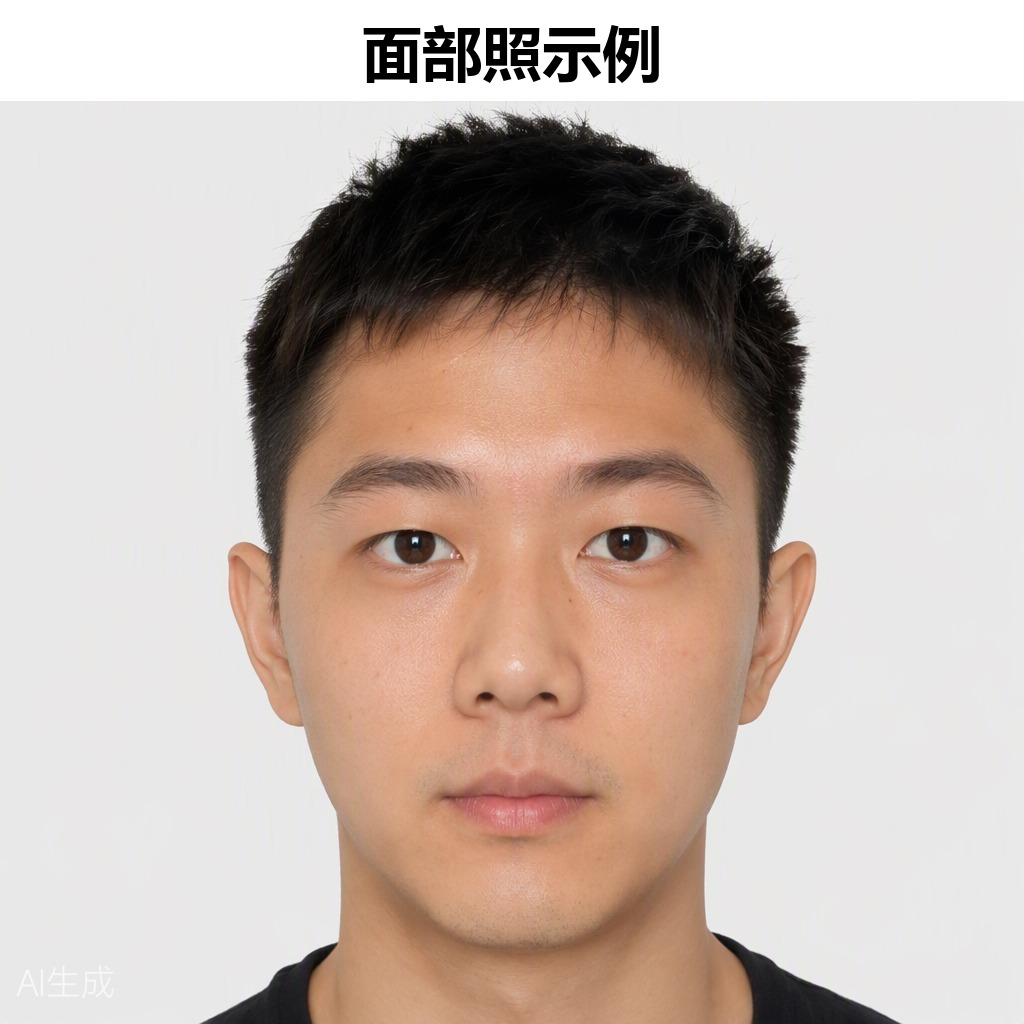
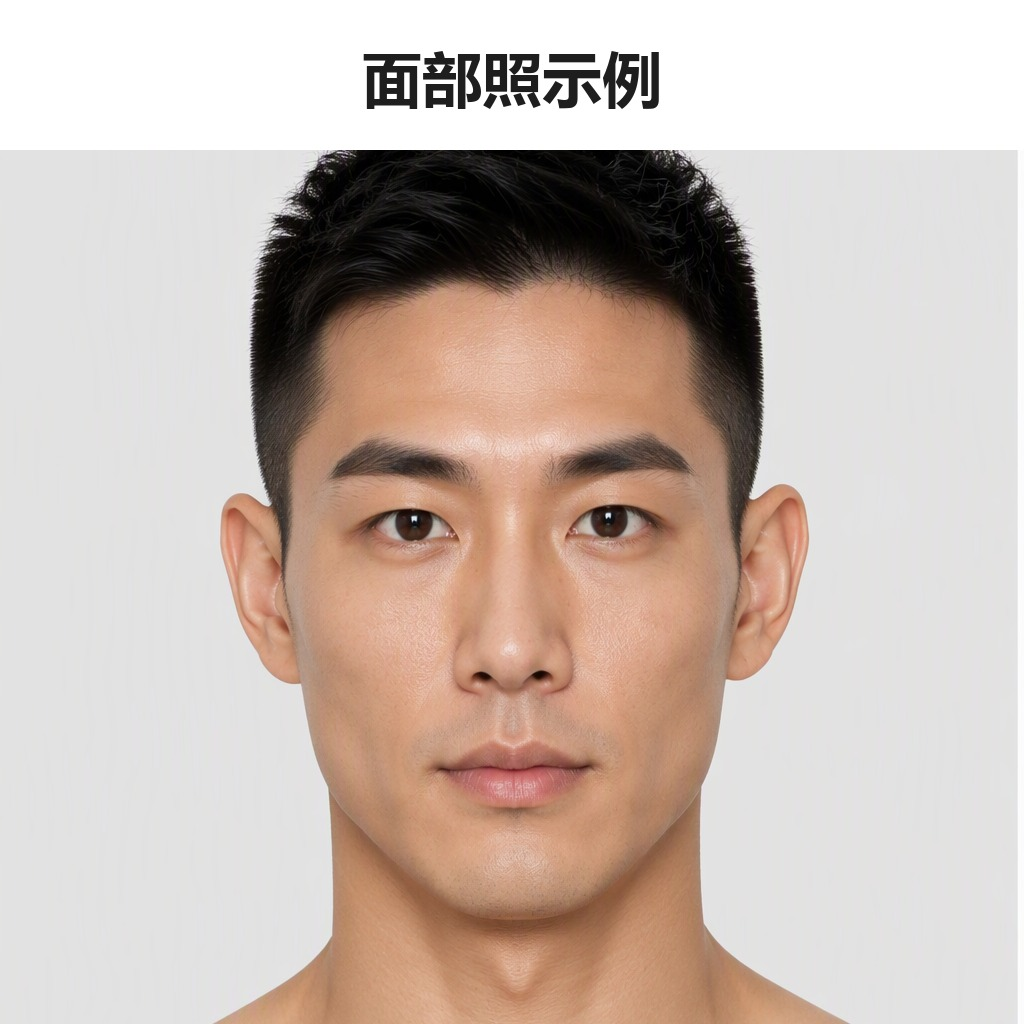
docs(guide): 手册拍摄要点修订与例图重做
- 舌底照要点改为「舌尖轻点上颚（上门牙后方）」，删去「两根静脉应清晰可见」
- 耳部照删去「两侧耳朵各拍一张」
- 舌面/舌底/面部/耳部四张例图重做：统一成熟男性形象、浅灰背景、医学示教风格，舌底静脉按正常生理形态淡化
- 例图合成改为上下裁边不压比例，图片地址加版本参数防缓存

Changed region(s): [[0.1875, 0.0, 1.0, 1.0], [0.6875, 0.9062, 0.875, 1.0], [0.0625, 0.0938, 0.1562, 0.1562]]

diff --git a/docs/user-guide.html b/docs/user-guide.html
@@ -181,21 +181,20 @@ strong{color:var(--ink);}
 <li>❌ 逆光拍摄 → 舌色偏暗无法判断</li>
 <li>❌ 刚喝完热茶 → 舌苔被冲刷</li>
 </ul>
-<p><img width="1024" height="1024" src="images/tongue_surface.jpg" alt="" /></p>
+<p><img width="1024" height="1024" src="images/tongue_surface.jpg?v=20261015" alt="" /></p>
 <hr />
 <h3 id="part-tongue-bottom">2. 舌底照</h3>
 <blockquote>
-<p><strong>「舌尖顶上颚，充分暴露舌下」</strong></p>
+<p><strong>「舌尖轻点上颚，充分暴露舌下」</strong></p>
 </blockquote>
 <p><strong>拍摄要点：</strong></p>
 <ul>
 <li>头后仰，嘴巴张大</li>
-<li>舌尖用力顶上颚（上门牙后方），充分暴露舌下</li>
+<li>舌尖轻点上颚（上门牙后方），充分暴露舌下</li>
 <li>手机从下往上拍，对焦舌下络脉</li>
-<li>舌下两根静脉应清晰可见</li>
 </ul>
 <p><strong>关键观察：</strong> 络脉颜色（淡紫/青紫/紫黑）、粗细（怒张/细涩）、有无瘀点</p>
-<p><img width="1024" height="1024" src="images/tongue_bottom.jpg" alt="" /></p>
+<p><img width="1024" height="1024" src="images/tongue_bottom.jpg?v=20261015" alt="" /></p>
 <hr />
 <h3 id="part-face">3. 头面部照</h3>
 <blockquote>
@@ -216,7 +215,7 @@ strong{color:var(--ink);}
 <li>唇域：唇色（淡白/红/深红/紫暗）、润燥（干裂/润泽）、口周暗沉</li>
 <li>鼻域：鼻色（淡白/红赤/青黑）、鼻翼煽动</li>
 </ul>
-<p><img width="1024" height="1024" src="images/face.jpg" alt="" /></p>
+<p><img width="1024" height="1024" src="images/face.jpg?v=20261015" alt="" /></p>
 <hr />
 <h3 id="part-eyes">4. 目部照</h3>
 <blockquote>
@@ -230,7 +229,7 @@ strong{color:var(--ink);}
 <li>手机使用微距模式或靠近拍摄</li>
 </ul>
 <p><strong>关键观察：</strong> 白睛颜色（目赤程度）、眼睑浮肿（如卧蚕）、目眶暗沉、巩膜黄染</p>
-<p><img width="1024" height="1024" src="images/eyes.jpg" alt="" /></p>
+<p><img width="1024" height="1024" src="images/eyes.jpg?v=20261015" alt="" /></p>
 <hr />
 <h3 id="part-ear">5. 耳部照</h3>
 <blockquote>
@@ -242,10 +241,9 @@ strong{color:var(--ink);}
 <li>手机从正侧面拍摄，对焦耳廓</li>
 <li>光线均匀照射耳部，不要有阴影遮挡</li>
 <li>拍清耳廓颜色、耳轮形态、耳垂</li>
-<li>两侧耳朵各拍一张（便于对比色泽差异）</li>
 </ul>
 <p><strong>关键观察：</strong> 耳色（淡白/红赤/青黑）、耳轮润枯（润泽/干枯）</p>
-<p><img width="1024" height="1024" src="images/ear.jpg" alt="" /></p>
+<p><img width="1024" height="1024" src="images/ear.jpg?v=20261015" alt="" /></p>
 <hr />
 <h3 id="part-hands">6. 手掌照</h3>
 <blockquote>
@@ -260,7 +258,7 @@ strong{color:var(--ink);}
 <li>最好双手一起拍（便于左右对比色泽）</li>
 </ul>
 <p><strong>关键观察：</strong> 手掌颜色（淡白/红/暗红）、手掌温度（由问诊获取）、甲床颜色（淡白/红润/暗紫）、甲床形态（光滑/粗糙/甲错）</p>
-<p><img width="1024" height="1024" src="images/hands.jpg" alt="" /></p>
+<p><img width="1024" height="1024" src="images/hands.jpg?v=20261015" alt="" /></p>
 <hr />
 <h3 id="part-skin">7. 皮肤照</h3>
 <blockquote>
@@ -274,7 +272,7 @@ strong{color:var(--ink);}
 <li>可以掀起袖子/裤腿拍摄</li>
 </ul>
 <p><strong>关键观察：</strong> 肤色、有无甲错（干燥粗糙脱屑）、黄汗痕迹、水肿、皮疹</p>
-<p><img width="1024" height="1024" src="images/skin.jpg" alt="" /></p>
+<p><img width="1024" height="1024" src="images/skin.jpg?v=20261015" alt="" /></p>
 <hr />
 <h2 id="sec-inquiry">四、十五项问诊（全部可跳过）</h2>
 <p>以下是体系设计的 15 项问诊（<strong>全部可跳过</strong>）。<strong>当前 Web 向导暂不采集问诊</strong>——辨证仅基于六维望诊；问诊数据不改变置信度等级，只在同一等级内提升辨证精度（记录模型仍支持问诊覆盖统计，趋势页会显示）。后续版本若开放采集，以下项目即问卷内容。</p>
@@ -586,6 +584,7 @@ strong{color:var(--ink);}
 <blockquote>
 <p><strong>「病随机转，方从法出；以法统方，以平为期。」</strong> —— 经方经典</p>
 </blockquote>
+
 <script>
 window.addEventListener("load", function () {
   if (location.hash) {

diff --git a/docs/user-guide.md b/docs/user-guide.md
@@ -62,13 +62,12 @@
 
 ### 2. 舌底照
 
-> **「舌尖顶上颚，充分暴露舌下」**
+> **「舌尖轻点上颚，充分暴露舌下」**
 
 **拍摄要点：**
 - 头后仰，嘴巴张大
-- 舌尖用力顶上颚（上门牙后方），充分暴露舌下
+- 舌尖轻点上颚（上门牙后方），充分暴露舌下
 - 手机从下往上拍，对焦舌下络脉
-- 舌下两根静脉应清晰可见
 
 **关键观察：** 络脉颜色（淡紫/青紫/紫黑）、粗细（怒张/细涩）、有无瘀点
 
@@ -123,7 +122,6 @@
 - 手机从正侧面拍摄，对焦耳廓
 - 光线均匀照射耳部，不要有阴影遮挡
 - 拍清耳廓颜色、耳轮形态、耳垂
-- 两侧耳朵各拍一张（便于对比色泽差异）
 
 **关键观察：** 耳色（淡白/红赤/青黑）、耳轮润枯（润泽/干枯）
 
